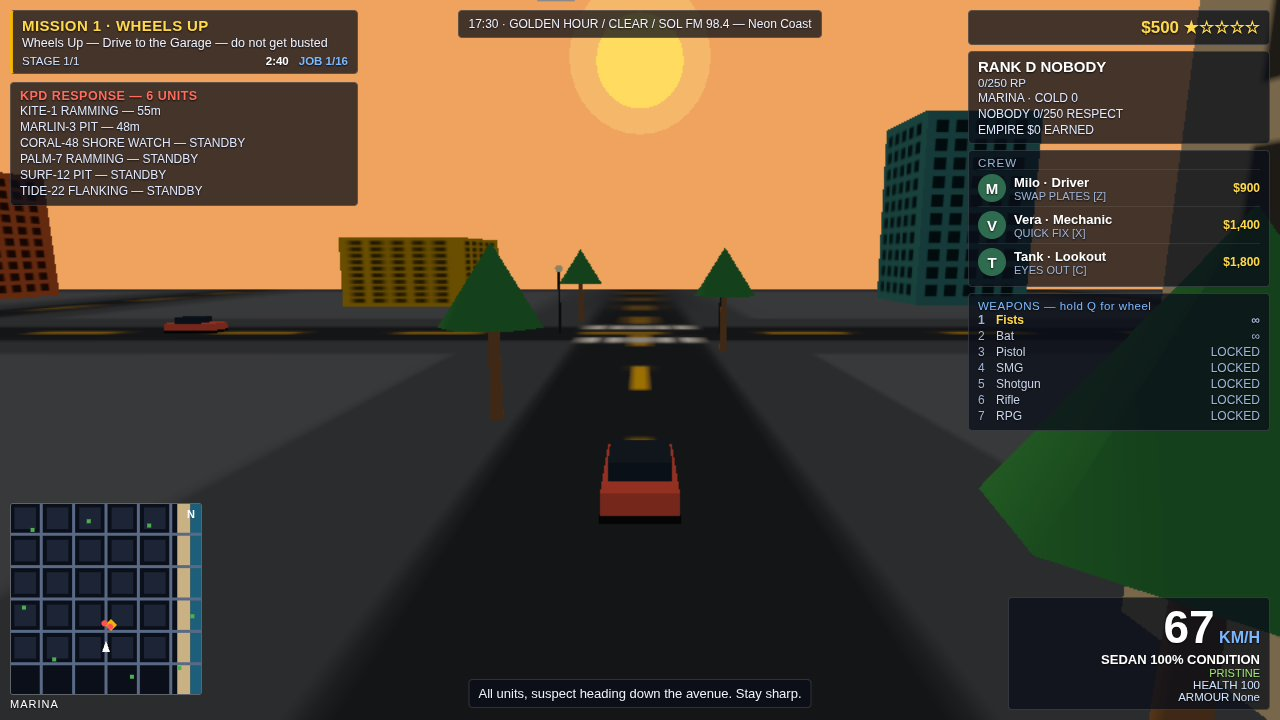
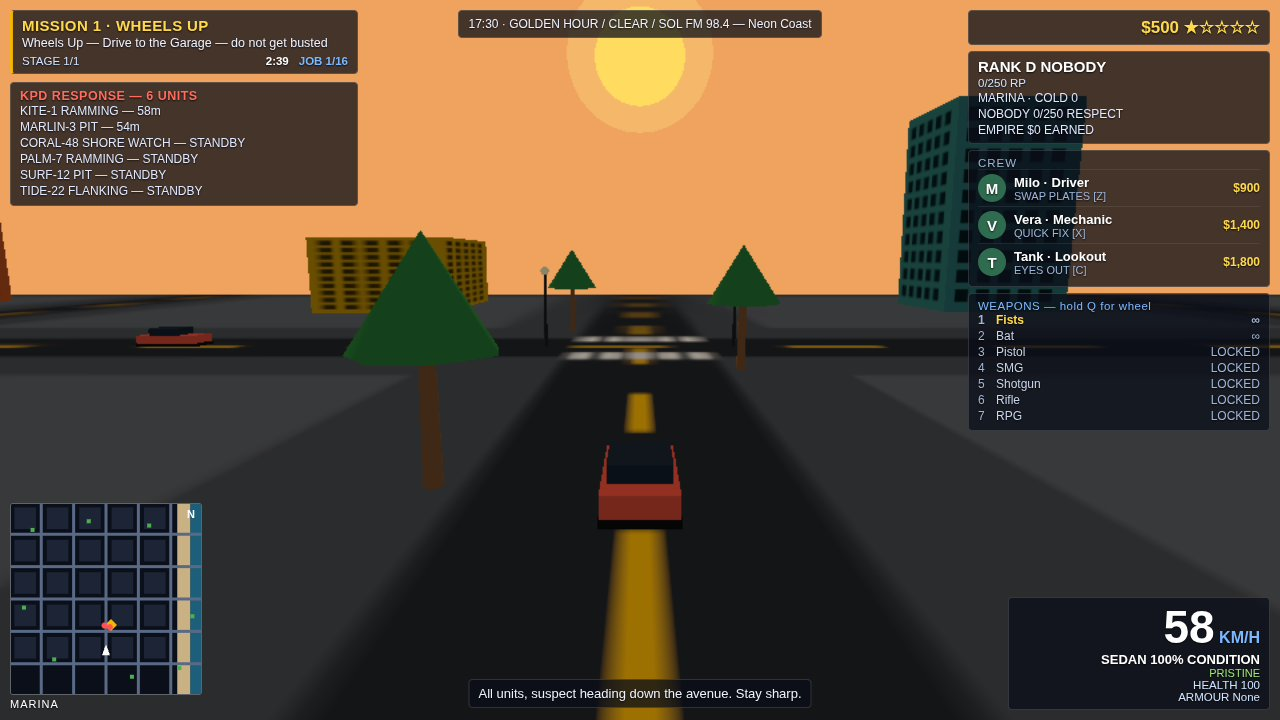
gta 06 v12 fix: cover staging — burning wreck clearly a car

diff --git a/game/src/render.js b/game/src/render.js
@@ -272,22 +272,33 @@ function syncWrecks(g) {
     let grp = g.render.wreckMeshes.get(w);
     if (!grp) {
       grp = new THREE.Group();
-      const body = new THREE.Mesh(new THREE.BoxGeometry(2, 0.8, 4.2), new THREE.MeshLambertMaterial({ color: 0x141414 }));
+      const body = new THREE.Mesh(new THREE.BoxGeometry(2, 0.8, 4.2), new THREE.MeshLambertMaterial({ color: 0x262626 }));
       body.position.y = 0.5;
       grp.add(body);
-      const cab = new THREE.Mesh(new THREE.BoxGeometry(1.7, 0.6, 2), new THREE.MeshLambertMaterial({ color: 0x0a0a0a }));
+      const cab = new THREE.Mesh(new THREE.BoxGeometry(1.7, 0.6, 2), new THREE.MeshLambertMaterial({ color: 0x1e1e1e }));
       cab.position.set(0, 1.1, -0.2);
       grp.add(cab);
+      // Wheels so a burnt wreck still reads as a car, not a black slab.
+      const wheelGeo = new THREE.BoxGeometry(0.5, 0.5, 0.9);
+      const wheelMat = new THREE.MeshLambertMaterial({ color: 0x0a0a0a });
+      for (const [wx, wz] of [[-0.95, 1.3], [0.95, 1.3], [-0.95, -1.3], [0.95, -1.3]]) {
+        const wh = new THREE.Mesh(wheelGeo, wheelMat);
+        wh.position.set(wx, 0.3, wz);
+        grp.add(wh);
+      }
       const f1 = new THREE.Mesh(new THREE.ConeGeometry(1.3, 3.4, 8), new THREE.MeshBasicMaterial({ color: 0xff7a1a }));
       f1.position.set(-0.4, 2.6, 0.6);
       grp.add(f1);
       const f2 = new THREE.Mesh(new THREE.ConeGeometry(0.9, 2.4, 8), new THREE.MeshBasicMaterial({ color: 0xffd94d }));
-      f2.position.set(0.5, 2.4, -0.6);
+      f2.position.set(0.7, 2.3, -1.1);
       grp.add(f2);
       const smoke = new THREE.Mesh(new THREE.SphereGeometry(1.7, 8, 6), new THREE.MeshLambertMaterial({ color: 0x555555, transparent: true, opacity: 0.55 }));
       smoke.position.set(0, 4.2, 0);
       grp.add(smoke);
       grp.userData.f1 = f1; grp.userData.f2 = f2; grp.userData.smoke = smoke;
+      // Cover staging may scale the wreck up (w.scale) so it reads big;
+      // gameplay wrecks stay at scale 1.
+      grp.scale.setScalar(w.scale || 1);
       grp.position.set(w.x, 0, w.z);
       grp.rotation.y = w.heading || 0;
       scene.add(grp);

diff --git a/game/src/shots.js b/game/src/shots.js
@@ -34,15 +34,19 @@ export function stageShot(g, name) {
     g.hud.bannerT = 10; g.hud.bannerKind = 'mission';
     g.player.wanted = 3; g.player.lastCrime = g.time;
     const sedan = ensureSedan(g);
-    sedan.x = 0; sedan.z = 40; sedan.heading = 0; sedan.speed = 0; sedan.health = 100;
+    sedan.x = -3; sedan.z = 42; sedan.heading = 0; sedan.speed = 0; sedan.health = 100;
     g.player.inCar = true; g.car = sedan;
-    g.player.x = 0; g.player.z = 40; g.player.heading = 0;
+    g.player.x = -3; g.player.z = 42; g.player.heading = 0;
     // Burning wreck: blackened car, big flames, open road, flanked by police.
-    if (!g.wrecks.some((w) => Math.hypot(w.x - 3, w.z - 58) < 5)) {
-      g.wrecks.push({ x: 3, z: 58, heading: 0.6, model: 'sedan', t: 0, flames: 2 });
+    // Placed between the palm rows (z 56) so no palm foliage blocks it, and
+    // turned broadside (heading 1.1) so the long body + cab read as a car,
+    // with the two flames spread along the body. Player sedan sits left
+    // and never blocks it.
+    if (!g.wrecks.some((w) => Math.hypot(w.x - 2, w.z - 56) < 5)) {
+      g.wrecks.push({ x: 2, z: 56, heading: 1.1, model: 'sedan', t: 0, flames: 2, scale: 1.6 });
     }
     stageCops(g, [
-      { x: -4, z: 54, h: 0 }, { x: 10, z: 62, h: 0 }, { x: -9, z: 68, h: 0 },
+      { x: -4, z: 54, h: 0 }, { x: 10, z: 58, h: 0 }, { x: -9, z: 68, h: 0 },
       { x: 13, z: 72, h: 0 }, { x: -7, z: 88, h: 0 }, { x: 15, z: 84, h: 0 },
     ]);
     // Parked traffic for a busy street: taxi, sport, van.
